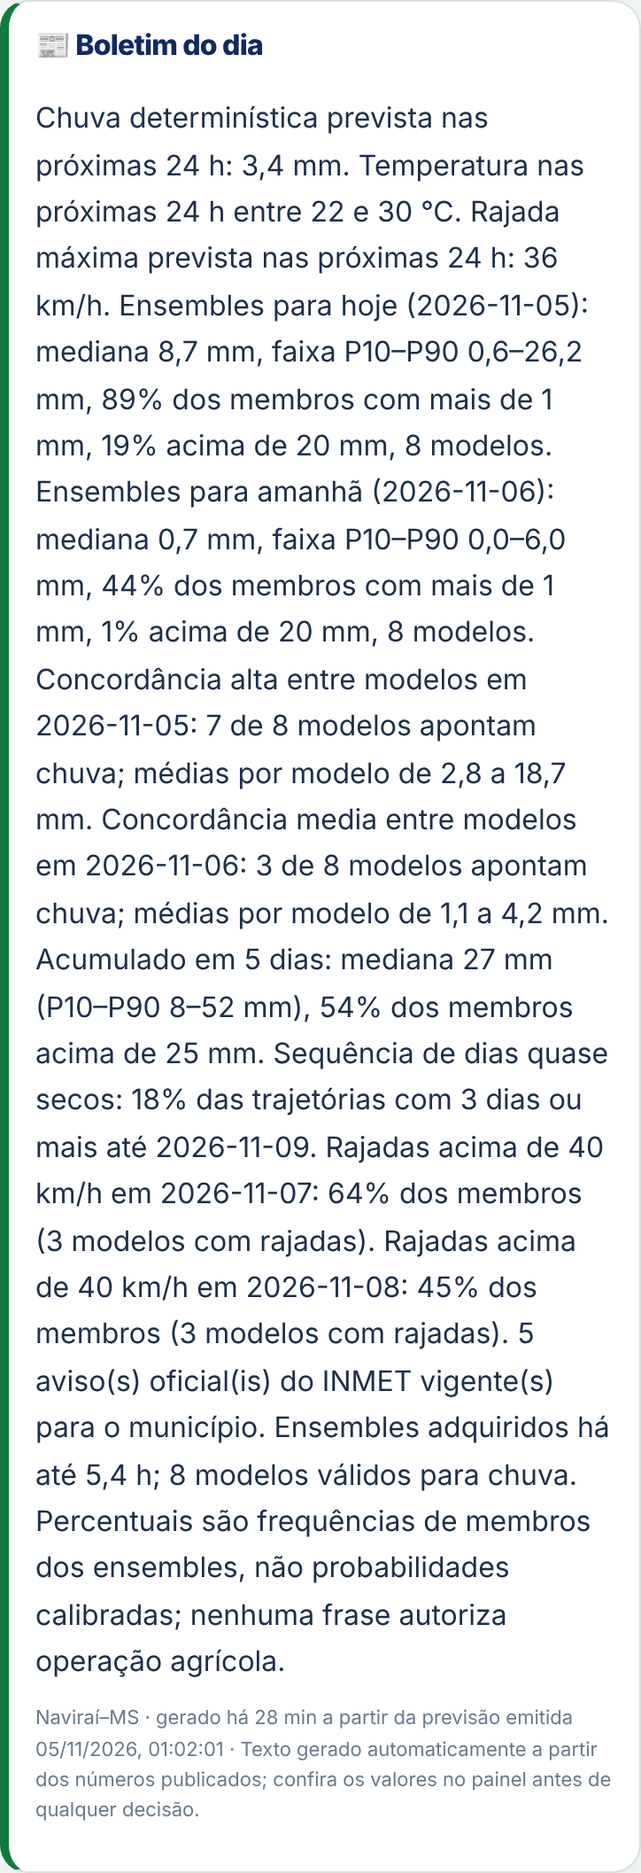
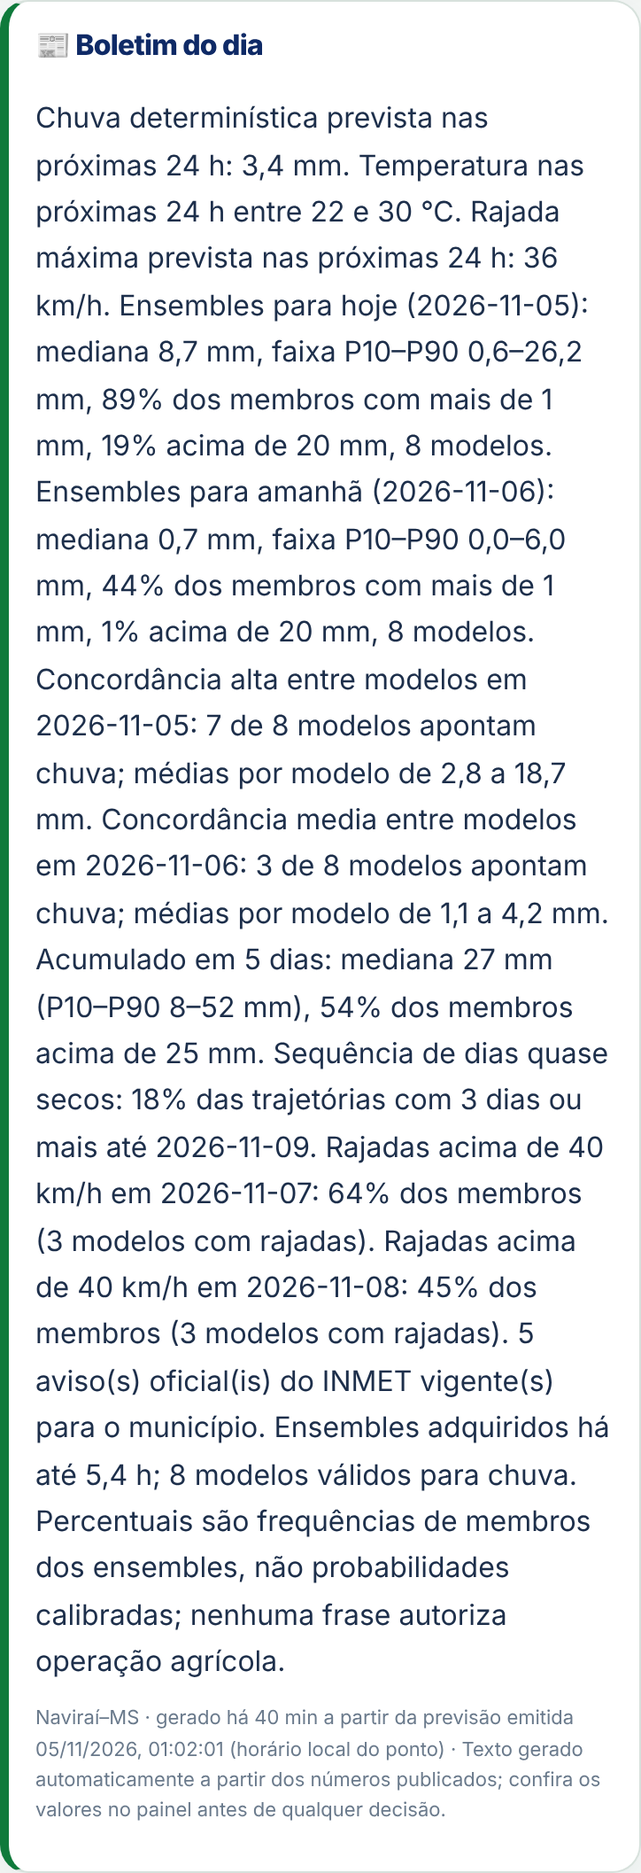
Revisão v4 (interface e infraestrutura): localidade por coordenadas de referência, previsão corrigida com o mesmo preditor da verificação, GOES fora do modo radar, concordância da semana derivada dos dados
- Boletim e estações reconhecem Diamantino pelo ponto de referência (não mais tratado como coordenada personalizada); corridas de carregamento protegidas por token; horário do boletim no fuso do ponto.
- Previsão corrigida na estação: valores horários do modelo agregados no navegador como na verificação (média horária dos membros, extremos do dia local); D4 e D5 usam D3, D6 usa D7; limite inferior do mapeamento de quantis igual ao np.interp; resumo de QC não conta a noite como suspeita; horas de chuva ausentes não viram zero; aba Observações não reinicia a estação escolhida.
- Mapa: animação GOES bloqueada no modo radar; comparação multimodelo limpa o gráfico quando indisponível; semanas GEFS somam só dias com valor; coluna de concordância da semana calculada pela maioria dos rótulos publicados (nunca texto fixo).
- Workflows: cache do Previous Runs restaurado antes do histórico diário (livro de cota contínuo); captura sem resposta válida marcada como indisponível; slugs de estação validados antes de publicar.
- Evidências atualizadas com a segunda rodada real da CI (sete modelos, radiação incluída, chuva sem calibração na estação seca de Diamantino).

Claude-Session: https://claude.ai/code/session_015HPU8JadsuYoGgukeGo36k

Changed region(s): [[0.0608, 0.9054, 0.942, 0.9678]]

diff --git a/site/static/stations_v40.js b/site/static/stations_v40.js
@@ -14,7 +14,20 @@
  let index=null,active=null,variable='t_max';const cache=new Map();
  async function getJSON(url){const r=await fetch(url,{cache:'no-store'});if(!r.ok)throw Error('HTTP '+r.status);return r.json();}
  function dateBR(iso){return iso?`${iso.slice(8,10)}/${iso.slice(5,7)}`:'—';}
- function currentLocationId(){const st=typeof state!=='undefined'?state:null;return st?.site?.id||'navirai';}
+ const REFERENCE_POINTS={navirai:{latitude:-23.065,longitude:-54.19},diamantino:{latitude:-14.408,longitude:-56.446}};
+ function locationIdFor(point){if(!point)return null;for(const [id,ref] of Object.entries(REFERENCE_POINTS)){if(Math.abs(point.latitude-ref.latitude)<0.01&&Math.abs(point.longitude-ref.longitude)<0.01)return id;}return null;}
+ function currentLocationId(){const point=root.CampoLocation?.getPoint?.();const byPoint=locationIdFor(point);if(byPoint)return byPoint;if(point?.custom)return null;const st=typeof state!=='undefined'?state:null;return st?.site?.id||'navirai';}
+ function localDaysFromHourly(times,series,offsetHours){
+  // Mirrors scripts/science/station_files.aggregate_local_days(extremes_from_hourly=True) for the browser.
+  const days=new Map();
+  times.forEach((t,i)=>{const utc=Date.parse(t.endsWith('Z')?t:t+'Z');if(!Number.isFinite(utc))return;const local=new Date(utc+offsetHours*3600000);const day=local.toISOString().slice(0,10);const hour=local.getUTCHours();
+   const ending=new Date(utc+offsetHours*3600000-1000);const endDay=ending.toISOString().slice(0,10);const endHour=hour===0?24:hour;
+   const d=days.get(day)||{temps:new Map(),rain:new Map()};days.set(day,d);if(finite(series.temperature_2m?.[i]))d.temps.set(hour,series.temperature_2m[i]);
+   const e=days.get(endDay)||{temps:new Map(),rain:new Map()};days.set(endDay,e);if(finite(series.precipitation?.[i]))e.rain.set(endHour,series.precipitation[i]);});
+  const out=[];for(const [date,d] of [...days.entries()].sort()){const temps=[...d.temps.values()];const hasAll=(from,to)=>{for(let h=from;h<=to;h++)if(!d.temps.has(h))return false;return true;};
+   out.push({date,t_max:temps.length>=20&&hasAll(10,17)?Math.max(...temps):null,t_min:temps.length>=20&&hasAll(1,7)?Math.min(...temps):null,rain_mm:d.rain.size===24?[...d.rain.values()].reduce((a,b)=>a+b,0):null});}
+  return out;
+ }
  function applyCorrection(params,x,hour){
   if(!params||!finite(x))return null;
   switch(params.method){
@@ -26,6 +39,7 @@
     const qx=params.qx||[],qy=params.qy||[];
     if(qx.length<2)return x*(params.fallback_ratio??1);
     if(!(x>params.threshold))return 0;
+    if(x<=qx[0])return qy[0]; // np.interp clamps on the left
     if(x>qx[qx.length-1])return x*(qx[qx.length-1]>0?qy[qy.length-1]/qx[qx.length-1]:1);
     let i=0;while(i<qx.length-1&&qx[i+1]<x)i++;
     const span=qx[i+1]-qx[i];return span>0?qy[i]+(qy[i+1]-qy[i])*(x-qx[i])/span:qy[i];}
@@ -46,11 +60,12 @@
  function recentTable(report,n=14){
   const days=(report.observations?.daily||[]).filter(d=>finite(d.t_max)||finite(d.rain_mm)).slice(-n).reverse();
   if(!days.length)return '<p class="caption">Sem dias completos recentes.</p>';
-  return `<div class="board-scroll"><table class="board recent"><thead><tr><th>Dia</th><th>T máx</th><th>T mín</th><th>Chuva</th><th>UR mín</th><th>Rajada máx</th></tr></thead><tbody>${days.map(d=>`<tr><td><strong>${dateBR(d.date)}</strong></td><td><strong class="tmax">${fmt(d.t_max,1)}°</strong></td><td><strong class="tmin">${fmt(d.t_min,1)}°</strong></td><td><strong class="rain-big">${finite(d.rain_mm)?fmt(d.rain_mm,1)+' mm':`<small title="dia com horas faltantes: a soma das horas medidas é um limite inferior, não o total">${finite(d.rain_partial_mm)?'≥ '+fmt(d.rain_partial_mm,1)+' mm':'—'} (${d.rain_hours??0}/24 h)</small>`}</strong></td><td>${fmt(d.rh_min,0)}%</td><td>${fmt(d.gust_max_kmh,0)} km/h</td></tr>`).join('')}</tbody></table></div>`;
+  return `<div class="board-scroll"><table class="board recent"><thead><tr><th>Dia</th><th>T máx</th><th>T mín</th><th>Chuva</th><th>UR mín</th><th>Rajada máx</th></tr></thead><tbody>${days.map(d=>`<tr><td><strong>${dateBR(d.date)}</strong></td><td><strong class="tmax">${fmt(d.t_max,1)}°</strong></td><td><strong class="tmin">${fmt(d.t_min,1)}°</strong></td><td><strong class="rain-big">${finite(d.rain_mm)?fmt(d.rain_mm,1)+' mm':finite(d.rain_hours)?`<small title="dia com horas faltantes: a soma das horas medidas é um limite inferior, não o total">${finite(d.rain_partial_mm)?'≥ '+fmt(d.rain_partial_mm,1)+' mm':'—'} (${d.rain_hours}/24 h)</small>`:'—'}</strong></td><td>${fmt(d.rh_min,0)}%</td><td>${fmt(d.gust_max_kmh,0)} km/h</td></tr>`).join('')}</tbody></table></div>`;
  }
  function qcSummary(report){
   const qc=report.observations?.qc||{};const h=qc.hourly,d=qc.daily;
-  if(h){const flagged=Object.entries(h).filter(([k,v])=>typeof v==='object').map(([k,v])=>{const bad=Object.entries(v).filter(([f])=>!['valid','missing'].includes(f)).reduce((a,[,n])=>a+n,0);return bad?`${k}: ${bad}`:null;}).filter(Boolean);
+  if(h){const FAULTS=['out_of_range','inconsistent_extremes','gust_below_speed','dew_above_temperature','step','flatline'];
+   const flagged=Object.entries(h).filter(([k,v])=>typeof v==='object').map(([k,v])=>{const bad=Object.entries(v).filter(([f])=>FAULTS.includes(f)).reduce((a,[,n])=>a+n,0);return bad?`${k}: ${bad}`:null;}).filter(Boolean);
    return `${h.rows} horas no arquivo · ${h.fully_missing_rows} horas sem nenhum dado · valores suspeitos sinalizados (não corrigidos): ${flagged.length?flagged.join(', '):'nenhum'}`;}
   if(d)return `${d.rows} dias no arquivo · ${d.missing_calendar_days??0} dias ausentes no calendário`;
   return 'sem resumo de qualidade';
@@ -74,23 +89,27 @@
   const rows=Object.entries(h).map(([k,v])=>`<div class="farm-card"><small>${esc(label[k]||k)} · melhor modelo em D1</small><strong>${esc(v.model==='multimodelo_media'?'Média multimodelo':v.model)}</strong><span>MAE ${fmt(v.mae_raw,k==='rain_mm'?1:2)} · viés ${v.bias_raw>0?'+':''}${fmt(v.bias_raw,k==='rain_mm'?1:2)} · ${v.n} dias${v.recommended?' · correção validada':''}</span></div>`);
   return rows.length?`<div class="farm-cards">${rows.join('')}</div>`:'';
  }
+ function leadFor(dayIndex){return dayIndex<=1?1:dayIndex<=3?dayIndex:dayIndex<=5?3:7;} // nearest validated lead (D4, D5 → D3; D6 → D7)
  async function correctedForecast(report,container){
   const box=$(container);if(!box)return;
-  const point=report.forecast_point;const st=report.station;
+  const point=report.forecast_point;const st=report.station;const offset=st.utc_offset_hours??-4;
   const models=Object.entries(report.models||{}).filter(([m,s])=>s.state==='ok'||s.state==='partial').map(([m])=>m);
   const preferred=report.headline?.t_max?.model||models[0];if(!preferred){box.textContent='Sem modelo avaliado para esta estação.';return;}
   const members=preferred==='multimodelo_media'?(report.models[preferred]?.members||[]):[preferred];
   box.innerHTML='<p class="caption">Consultando a previsão atual nas coordenadas da estação…</p>';
   try{
-   const q=new URLSearchParams({latitude:point.latitude,longitude:point.longitude,models:members.join(','),daily:'temperature_2m_max,temperature_2m_min,precipitation_sum',timezone:st.timezone||'America/Campo_Grande',forecast_days:'7'});
+   const q=new URLSearchParams({latitude:point.latitude,longitude:point.longitude,models:members.join(','),hourly:'temperature_2m,precipitation',timezone:'UTC',forecast_days:'8'});
    const r=await fetch('https://api.open-meteo.com/v1/forecast?'+q);if(!r.ok)throw Error('HTTP '+r.status);
-   const p=await r.json();const d=p.daily||{};const suffix=members.length>1;
-   const pick=(key,i)=>{const vals=members.map(m=>d[suffix?`${key}_${m}`:key]?.[i]).filter(finite);return vals.length===members.length?vals.reduce((a,b)=>a+b,0)/vals.length:null;};
-   const rows=(d.time||[]).map((date,i)=>{const lead=i<=1?1:i<=3?i:7;const approx=i===0||i>3;
-    const cells=[['t_max',pick('temperature_2m_max',i)],['t_min',pick('temperature_2m_min',i)],['rain_mm',pick('precipitation_sum',i)]].map(([v,raw])=>{const rec=recommended(report,preferred,lead,v);const corr=rec?clip(v,applyCorrection(rec.parameters,raw)):null;
-     return `<td><strong>${fmt(raw,v==='rain_mm'?1:0)}</strong>${rec?`<br><span class="corr" title="${esc(METHOD[rec.method]||rec.method)}; validado em D${lead}${approx?' (aproximação para este dia)':''}">corrigido ${fmt(corr,v==='rain_mm'?1:0)}</span>`:'<br><small>sem correção validada</small>'}</td>`;});
-    return `<tr><td><strong>${dateBR(date)}</strong><small>${i===0?'hoje':i===1?'amanhã':'D'+i}${approx?'*':''}</small></td>${cells.join('')}</tr>`;});
-   box.innerHTML=`<div class="board-scroll"><table class="board corrected"><thead><tr><th>Dia</th><th>T máx (°C)</th><th>T mín (°C)</th><th>Chuva (mm)</th></tr></thead><tbody>${rows.join('')}</tbody></table></div><p class="caption">Modelo ${esc(preferred==='multimodelo_media'?'média multimodelo ('+members.join(', ')+')':preferred)} no ponto ${Number(point.latitude).toFixed(4)}, ${Number(point.longitude).toFixed(4)}. Valor bruto em destaque; "corrigido" aplica apenas correções validadas fora da amostra para a antecedência correspondente. * hoje e D4–D6 usam os parâmetros da antecedência validada mais próxima (aproximação).</p>`;
+   const p=await r.json();const h=p.hourly||{};const suffix=members.length>1;
+   // Hour-by-hour mean of the members (only hours where every member is present), then local-day extremes: the calibration's predictor.
+   const series={temperature_2m:[],precipitation:[]};
+   (h.time||[]).forEach((_,i)=>{for(const key of ['temperature_2m','precipitation']){const vals=members.map(m=>h[suffix?`${key}_${m}`:key]?.[i]).filter(finite);series[key].push(vals.length===members.length?vals.reduce((a,b)=>a+b,0)/vals.length:null);}});
+   const days=localDaysFromHourly(h.time||[],series,offset).filter(d=>d.t_max!==null||d.rain_mm!==null).slice(0,7);
+   const rows=days.map((d,i)=>{const lead=leadFor(i);const approx=i===0||i>3;
+    const cells=[['t_max',d.t_max],['t_min',d.t_min],['rain_mm',d.rain_mm]].map(([v,raw])=>{const rec=recommended(report,preferred,lead,v);const corr=rec&&finite(raw)?clip(v,applyCorrection(rec.parameters,raw)):null;
+     return `<td><strong>${fmt(raw,v==='rain_mm'?1:0)}</strong>${rec&&finite(raw)?`<br><span class="corr" title="${esc(METHOD[rec.method]||rec.method)}; validado em D${lead}${approx?' (aproximação para este dia)':''}">corrigido ${fmt(corr,v==='rain_mm'?1:0)}</span>`:'<br><small>sem correção validada</small>'}</td>`;});
+    return `<tr><td><strong>${dateBR(d.date)}</strong><small>${i===0?'hoje':i===1?'amanhã':'D'+i}${approx?'*':''}</small></td>${cells.join('')}</tr>`;});
+   box.innerHTML=`<div class="board-scroll"><table class="board corrected"><thead><tr><th>Dia</th><th>T máx (°C)</th><th>T mín (°C)</th><th>Chuva (mm)</th></tr></thead><tbody>${rows.join('')}</tbody></table></div><p class="caption">Modelo ${esc(preferred==='multimodelo_media'?'média multimodelo ('+members.join(', ')+')':preferred)} no ponto ${Number(point.latitude).toFixed(4)}, ${Number(point.longitude).toFixed(4)}; extremos e chuva diária calculados dos valores horários exatamente como na verificação. Valor bruto em destaque; "corrigido" aplica apenas correções validadas fora da amostra. * hoje usa os parâmetros de D1; D4 e D5 usam D3 e D6 usa D7 (aproximações).</p>`;
   }catch(err){box.innerHTML=`<p class="notice warning">Não foi possível consultar a previsão atual (${esc(err.message)}).</p>`;}
  }
  function renderStation(report){
@@ -110,8 +129,8 @@
  async function select(slug){
   active=slug;for(const b of document.querySelectorAll('#stations-tabs button'))b.classList.toggle('active',b.dataset.slug===slug);
   const entry=index.stations.find(s=>s.slug===slug);if(!entry)return;
-  try{if(!cache.has(slug))cache.set(slug,await getJSON('data/stations/'+entry.file));renderStation(cache.get(slug));}
-  catch(err){$('stations-body').innerHTML=`<p class="notice warning">Relatório da estação indisponível (${esc(err.message)}).</p>`;}
+  try{if(!cache.has(slug))cache.set(slug,await getJSON('data/stations/'+entry.file));if(active!==slug)return;renderStation(cache.get(slug));}
+  catch(err){if(active!==slug)return;$('stations-body').innerHTML=`<p class="notice warning">Relatório da estação indisponível (${esc(err.message)}).</p>`;}
  }
  function renderTabs(){
   const tabs=$('stations-tabs');if(!tabs)return;
@@ -124,16 +143,16 @@
    if(!index)index=await getJSON('data/stations/index.json');
    status.className='notice';status.innerHTML=`<strong>${index.stations.length} estações</strong> com observações importadas · resultados gerados ${esc(new Date(index.generated_at_utc).toLocaleString('pt-BR'))}.`;
    if(!$('stations-tabs').children.length)renderTabs();
-   const loc=currentLocationId();const first=index.stations.find(s=>s.location_id===loc)||index.stations[0];
-   if(first&&active!==first.slug)await select(first.slug);
+   const loc=currentLocationId();const mine=loc?index.stations.filter(s=>s.location_id===loc):index.stations;
+   if(!mine.some(s=>s.slug===active)){const first=mine[0]||index.stations[0];if(first)await select(first.slug);}
   }catch(err){status.className='notice muted';status.textContent='Resultados das estações ainda não publicados pelo fluxo científico (gerados diariamente após a importação dos arquivos). '+(err.message||'');}
  }
  async function overviewCard(){
   const card=$('station-overview-card'),box=$('station-overview');if(!card||!box)return;
-  if(root.CampoLocation?.getPoint?.()?.custom){card.hidden=true;return;}
+  const loc=currentLocationId();if(!loc){card.hidden=true;return;}
   try{
    if(!index)index=await getJSON('data/stations/index.json');
-   const loc=currentLocationId();const entries=index.stations.filter(s=>s.location_id===loc&&s.recent?.length);
+   const entries=index.stations.filter(s=>s.location_id===loc&&s.recent?.length);
    if(!entries.length){card.hidden=true;return;}
    box.innerHTML=entries.map(s=>{const last=s.recent[s.recent.length-1];const chk=s.yesterday_check;
     return `<div class="station-mini"><div class="station-mini-head"><strong>${esc(s.name)}</strong><small>último dia completo: ${dateBR(last.date)}</small></div><div class="farm-cards"><div class="farm-card"><small>T máx medida</small><strong class="tmax">${fmt(last.t_max,1)}°</strong></div><div class="farm-card"><small>T mín medida</small><strong class="tmin">${fmt(last.t_min,1)}°</strong></div><div class="farm-card tone-wet"><small>Chuva medida</small><strong>${finite(last.rain_mm)?fmt(last.rain_mm,1)+' mm':'—'}</strong></div>${chk?`<div class="farm-card"><small>Conferência D1 em ${dateBR(chk.date)}</small><strong>${finite(chk.obs_rain_mm)?fmt(chk.obs_rain_mm,1):'—'} mm</strong><span>previsto ${fmt(chk.fc_rain_mm,1)} mm · T máx ${fmt(chk.obs_t_max,0)}° (prev. ${fmt(chk.fc_t_max,0)}°)</span></div>`:''}</div><p class="caption">Últimos 7 dias: ${s.recent.map(d=>`${dateBR(d.date)} ${finite(d.rain_mm)?fmt(d.rain_mm,0)+' mm':'—'}`).join(' · ')}. Detalhes e erro dos modelos na aba Observações.</p></div>`;}).join('');
@@ -145,6 +164,6 @@
   root.addEventListener('campo:forecast-rendered',()=>void overviewCard());
   root.addEventListener('campo:location-changed',()=>setTimeout(()=>{void overviewCard();if(document.getElementById('observations')?.classList.contains('active'))void load();},80));
  }
- root.CampoStations={load,select,render:renderStation,overviewCard,applyCorrection,matrix,_test:{clip,recommended}};
+ root.CampoStations={load,select,render:renderStation,overviewCard,applyCorrection,matrix,locationIdFor,_test:{clip,recommended,leadFor,localDaysFromHourly}};
  if(typeof module==='object'&&module.exports)module.exports=root.CampoStations;
 })(typeof window!=='undefined'?window:globalThis);

diff --git a/site/static/weekly_board_v40.js b/site/static/weekly_board_v40.js
@@ -64,16 +64,20 @@
   const sumDet=(from,to)=>{const vals=(det.time||[]).map((d,i)=>[d,det.precipitation_sum?.[i]]).filter(([d])=>d>=from&&d<=to).map(([,v])=>v);return vals.length&&vals.every(finite)?{sum:vals.reduce((a,b)=>a+b,0),days:vals.length}:null;};
   const addDays=(iso,n)=>new Date(Date.parse(iso+'T12:00:00Z')+n*86400000).toISOString().slice(0,10);
   const w1=sumDet(today,addDays(today,6)),w2=sumDet(addDays(today,7),addDays(today,13));
+  // Confidence of the week comes from the published agreement between models (majority label), never from a fixed text.
+  const labels=(state?.rain_model_agreement_daily||[]).filter(a=>a.date>=today&&a.date<=addDays(today,6)).map(a=>a.agreement_label).filter(Boolean);
+  const count=l=>labels.filter(x=>x===l).length;
+  const weekConfidence=!acc?'—':labels.length<3?'sem leitura':count('alta')>labels.length/2?'alta':count('baixa')>labels.length/2?'baixa':'média';
   rows.push({label:'Esta semana',period:`${today.slice(8,10)}/${today.slice(5,7)}–${addDays(today,6).slice(8,10)}/${addDays(today,6).slice(5,7)}`,
-   rain:acc?`${fmt(acc.p50_mm)} mm`:w1?`${fmt(w1.sum)} mm`:'—',range:acc?`P10–P90 ${fmt(acc.p10_mm)}–${fmt(acc.p90_mm)} mm · ${pct(acc.p_gt_25_mm)} dos membros acima de 25 mm`:'determinístico',
-   source:acc?`${acc.model_count} ensembles`:'Open-Meteo determinístico',confidence:acc?'média a alta':'média',kind:'ensemble'});
+   rain:acc?`${fmt(acc.p50_mm)} mm`:w1?`${fmt(w1.sum)} mm`:'—',range:acc?`P10–P90 ${fmt(acc.p10_mm)}–${fmt(acc.p90_mm)} mm · ${pct(acc.p_gt_25_mm)} dos membros acima de 25 mm${labels.length?` · concordância ${weekConfidence} em ${labels.length} dias`:''}`:'determinístico, sem distribuição de ensemble',
+   source:acc?`${acc.model_count} ensembles`:'Open-Meteo determinístico',confidence:weekConfidence,kind:'ensemble'});
   rows.push({label:'Próxima semana',period:`${addDays(today,7).slice(8,10)}/${addDays(today,7).slice(5,7)}–${addDays(today,13).slice(8,10)}/${addDays(today,13).slice(5,7)}`,
    rain:w2&&w2.days>=5?`${fmt(w2.sum)} mm`:'—',range:w2?`${w2.days} dias com previsão determinística; sem distribuição de ensemble`:'sem previsão diária',source:'Open-Meteo determinístico (dias 8–14)',confidence:'baixa',kind:'deterministic'});
   const gefs=state?.complementary?.gefs_extended;
   if(gefs?.state==='ok'&&Array.isArray(gefs.days)){
    const byWeek={};for(const d of gefs.days){const off=Math.round((Date.parse(d.date+'T12:00:00Z')-Date.parse(today+'T12:00:00Z'))/86400000);if(off<14)continue;const w=Math.floor(off/7);(byWeek[w]??=[]).push(d);}
-   for(const [w,days] of Object.entries(byWeek)){if(days.length<5)continue;const mean=days.reduce((s,d)=>s+(d.mean_mm||0),0);
-    rows.push({label:`Semana ${Number(w)+1}`,period:`${days[0].date.slice(8,10)}/${days[0].date.slice(5,7)}–${days.at(-1).date.slice(8,10)}/${days.at(-1).date.slice(5,7)}`,rain:`≈ ${fmt(mean)} mm`,range:`soma das médias diárias do GEFS (${days.length} dias; ${gefs.member_count} membros de um só modelo)`,source:'NOAA GEFS estendido',confidence:'baixa',kind:'gefs'});}
+   for(const [w,days] of Object.entries(byWeek)){const vals=days.map(d=>d.mean_mm).filter(finite);if(vals.length<5)continue;const mean=vals.reduce((s,v)=>s+v,0);
+    rows.push({label:`Semana ${Number(w)+1}`,period:`${days[0].date.slice(8,10)}/${days[0].date.slice(5,7)}–${days.at(-1).date.slice(8,10)}/${days.at(-1).date.slice(5,7)}`,rain:`≈ ${fmt(mean)} mm`,range:`soma das médias diárias do GEFS (${vals.length} dias com valor; ${gefs.member_count} membros de um só modelo)`,source:'NOAA GEFS estendido',confidence:'tendência',kind:'gefs'});}
   }
   const ext=state?.complementary?.ecmwf_extended;
   if(ext?.state==='ok'&&Array.isArray(ext.weeks)){
@@ -99,7 +103,7 @@
   }
   if(weeks){
    const rows=buildWeeks(state,now);
-   weeks.innerHTML=`<div class="board-scroll"><table class="board weeks"><thead><tr><th>Período</th><th>Chuva esperada</th><th>Leitura</th><th>Fonte</th><th>Confiança</th></tr></thead><tbody>${rows.map(r=>`<tr class="week-${esc(r.kind)}"><td><strong>${esc(r.label)}</strong><small>${esc(r.period)}</small></td><td><strong class="rain-big">${esc(r.rain)}</strong></td><td>${esc(r.range)}</td><td>${esc(r.source)}</td><td><span class="agree ${r.confidence.startsWith('média')?'ok':r.confidence==='baixa'?'bad':'warn'}">${esc(r.confidence)}</span></td></tr>`).join('')}</tbody></table></div><p class="caption">Além de 7 dias a previsão diária perde qualidade; semanas 3 em diante são tendências de um modelo (GEFS) ou médias semanais (ECMWF), nunca chuva em dias específicos.</p>`;
+   weeks.innerHTML=`<div class="board-scroll"><table class="board weeks"><thead><tr><th>Período</th><th>Chuva esperada</th><th>Leitura</th><th>Fonte</th><th>Concordância</th></tr></thead><tbody>${rows.map(r=>`<tr class="week-${esc(r.kind)}"><td><strong>${esc(r.label)}</strong><small>${esc(r.period)}</small></td><td><strong class="rain-big">${esc(r.rain)}</strong></td><td>${esc(r.range)}</td><td>${esc(r.source)}</td><td><span class="agree ${r.confidence==='alta'?'ok':r.confidence==='média'?'warn':r.confidence==='baixa'?'bad':''}">${esc(r.confidence)}</span></td></tr>`).join('')}</tbody></table></div><p class="caption">Além de 7 dias a previsão diária perde qualidade; semanas 3 em diante são tendências de um modelo (GEFS) ou médias semanais (ECMWF), nunca chuva em dias específicos.</p>`;
   }
  }
  function bind(){root.addEventListener?.('campo:forecast-rendered',()=>{try{render(typeof state!=='undefined'?state:null);}catch(e){console.error('weekly board render',e);}});}

diff --git a/site/static/bulletin_v40.js b/site/static/bulletin_v40.js
@@ -5,7 +5,10 @@
 (function(root){
  const $=id=>typeof document==='undefined'?null:document.getElementById(id);
  const esc=s=>String(s??'').replace(/[&<>"']/g,c=>({'&':'&amp;','<':'&lt;','>':'&gt;','"':'&quot;',"'":'&#39;'}[c]));
- const cache=new Map();
+ const cache=new Map();let requestId=0;
+ const REFERENCE_POINTS={navirai:{latitude:-23.065,longitude:-54.19},diamantino:{latitude:-14.408,longitude:-56.446}};
+ function locationIdFor(point){if(!point)return null;for(const [id,ref] of Object.entries(REFERENCE_POINTS)){if(Math.abs(point.latitude-ref.latitude)<0.01&&Math.abs(point.longitude-ref.longitude)<0.01)return id;}return null;}
+ function siteTimeZone(){const st=typeof state!=='undefined'?state:null;const tz=st?.site?.timezone;return tz&&tz!=='auto'?tz:'America/Campo_Grande';}
  function originLabel(b){
   if(b.status==='llm')return {text:`IA (${b.provider}: ${b.model}) · números validados contra os fatos`,cls:'ai'};
   if(b.status==='rules_fallback')return {text:'texto por regras (IA indisponível ou rejeitada)',cls:'rules'};
@@ -18,11 +21,13 @@
   const origin=originLabel(bulletin);
   $('bulletin-text').textContent=bulletin.text;
   const badge=$('bulletin-origin');badge.textContent=origin.text;badge.className='source-badge origin-'+origin.cls;
-  $('bulletin-meta').textContent=`${locationName?locationName+' · ':''}gerado ${ageText(bulletin.generated_utc)} a partir da previsão emitida ${bulletin.issued_at_utc?new Date(bulletin.issued_at_utc).toLocaleString('pt-BR'):'—'} · ${bulletin.disclaimer||''}`;
+  let issued='—';try{issued=bulletin.issued_at_utc?new Date(bulletin.issued_at_utc).toLocaleString('pt-BR',{timeZone:siteTimeZone()})+' (horário local do ponto)':'—';}catch(_){issued=bulletin.issued_at_utc||'—';}
+  $('bulletin-meta').textContent=`${locationName?locationName+' · ':''}gerado ${ageText(bulletin.generated_utc)} a partir da previsão emitida ${issued} · ${bulletin.disclaimer||''}`;
   card.hidden=false;
  }
  async function load(locationId,locationName){
   const card=$('bulletin-card');if(!card)return null;
+  const token=++requestId;
   if(!locationId){card.hidden=true;return null;}
   try{
    if(!cache.has(locationId)){
@@ -30,20 +35,21 @@
     if(!r.ok)throw Error('HTTP '+r.status);
     cache.set(locationId,await r.json());
    }
+   if(token!==requestId)return null; // the location changed while the bulletin was loading
    render(cache.get(locationId),locationName);return cache.get(locationId);
-  }catch(_){card.hidden=true;return null;}
+  }catch(_){if(token===requestId)card.hidden=true;return null;}
  }
  function currentLocation(){
   const st=typeof state!=='undefined'?state:null;
-  const custom=root.CampoLocation?.getPoint?.()?.custom;
-  if(custom)return {id:null,name:null};
-  return {id:st?.site?.id||'navirai',name:st?.site?.id==='diamantino'?'Diamantino–MT':'Naviraí–MS'};
+  const point=root.CampoLocation?.getPoint?.();
+  const id=locationIdFor(point)||(point?.custom?null:(st?.site?.id||'navirai'));
+  return {id,name:id==='diamantino'?'Diamantino–MT':id==='navirai'?'Naviraí–MS':null};
  }
  function refresh(){const loc=currentLocation();void load(loc.id,loc.name);}
  if(typeof document!=='undefined'){
   root.addEventListener('campo:forecast-rendered',refresh);
   root.addEventListener('campo:location-changed',()=>setTimeout(refresh,50));
  }
- root.CampoBulletin={load,render,originLabel,_test:{ageText}};
+ root.CampoBulletin={load,render,originLabel,locationIdFor,_test:{ageText,currentLocation}};
  if(typeof module==='object'&&module.exports)module.exports=root.CampoBulletin;
 })(typeof window!=='undefined'?window:globalThis);

diff --git a/site/static/maps_v14.js b/site/static/maps_v14.js
@@ -141,7 +141,7 @@
     radarStatus('Radar indisponível nesta consulta ('+(err.name==='AbortError'?'tempo limite':String(err.message).slice(0,65))+'). Consulte os visualizadores oficiais do INMET/INPE.','bad');}
   }finally{clearTimeout(timeout);if(radarRequest===abort)radarRequest=null;}
  }
- function setRadarMode(){clearRadarCache();clearTimeLayers();productTitle();updateProductLegend();
+ function setRadarMode(){clearRadarCache();clearTimeLayers();if(el('goes-control'))el('goes-control').hidden=radarActive()||!timeLayerActive();productTitle();updateProductLegend();
   if(radarActive()){
    pause();weatherLayer?.clearLayers();
    for(const id of ['map-hour','map-previous','map-next','map-play','map-refresh'])if(el(id))el(id).disabled=true;
@@ -186,7 +186,7 @@
  function goesLabel(iso){const d=new Date(iso);let local;try{local=new Intl.DateTimeFormat('pt-BR',{dateStyle:'short',timeStyle:'short',timeZone:tz()}).format(d);}catch(_){local=iso;}const age=Math.round((Date.now()-d.getTime())/60000);return `${local} (local) · ${iso.slice(11,16)} UTC · há ${age} min`;}
  function clearTimeLayers(){for(const l of goesLayers.values())if(map?.hasLayer(l))map.removeLayer(l);goesLayers.clear();if(goesTimer){clearInterval(goesTimer);goesTimer=null;}const b=el('goes-play');if(b)b.textContent='▶ Animar nuvens';}
  function showTimeFrame(index){
-  if(!map||!timeLayerActive()||!goesFrames.length)return;
+  if(!map||radarActive()||!timeLayerActive()||!goesFrames.length)return;
   goesIndex=clamp(index,0,goesFrames.length-1);const layer=el('map-satellite').value,iso=goesFrames[goesIndex],cfg=TIME_LAYERS[layer];
   el('goes-frame').value=String(goesIndex);el('goes-time').textContent=goesLabel(iso);
   let tile=goesLayers.get(iso);
@@ -200,7 +200,7 @@
   if(goesLayers.size>6){for(const [k,l] of goesLayers){if(k!==iso&&Math.abs(goesFrames.indexOf(k)-goesIndex)>2){map.removeLayer(l);goesLayers.delete(k);}}}
  }
  function toggleGoesPlay(){if(goesTimer){clearInterval(goesTimer);goesTimer=null;el('goes-play').textContent='▶ Animar nuvens';return;}
-  if(!goesFrames.length)return;el('goes-play').textContent='⏸ Pausar';if(goesIndex>=goesFrames.length-1)goesIndex=-1;
+  if(!goesFrames.length||radarActive())return;el('goes-play').textContent='⏸ Pausar';if(goesIndex>=goesFrames.length-1)goesIndex=-1;
   goesTimer=setInterval(()=>{if(!el('maps').classList.contains('active')||!timeLayerActive()){toggleGoesPlay();return;}showTimeFrame(goesIndex>=goesFrames.length-1?0:goesIndex+1);},1100);}
  function drawTimeLayer(){
   const layer=el('map-satellite').value;clearTimeLayers();if(!goesFrames.length){goesBackoff=0;goesFrames=timeFrames(layer);}

diff --git a/site/static/models_compare_v40.js b/site/static/models_compare_v40.js
@@ -22,7 +22,8 @@
  function render(product){
   const status=$('models-compare-status'),table=$('models-compare-table'),plot=$('models-compare-plot');
   if(!status||!table)return;
-  if(!product||product.state!=='ok'){status.textContent='Comparação multimodelo indisponível nesta coleta'+(product?.error?` (${product.error})`:'')+'.';status.className='notice muted';table.innerHTML='';return;}
+  if(!product||product.state!=='ok'){status.textContent='Comparação multimodelo indisponível nesta coleta'+(product?.error?` (${product.error})`:'')+'.';status.className='notice muted';table.innerHTML='';
+   if(plot&&root.Plotly&&plot.classList.contains('js-plotly-plot'))root.Plotly.purge(plot);if(plot)plot.innerHTML='';return;}
   const list=rows(product),info=summary(product);
   status.className='notice';
   status.innerHTML=`<strong>${info.ok} modelos determinísticos</strong> no mesmo ponto, coleta ${esc(new Date(product.collected_at_utc).toLocaleString('pt-BR'))}.${info.fallback?' '+esc(info.fallback)+'.':''}${info.missing.length?` <small>Indisponíveis: ${esc(info.missing.join(' · '))}</small>`:''}`;

diff --git a/scripts/science/station_calibration.py b/scripts/science/station_calibration.py
@@ -25,6 +25,7 @@ import datetime as dt
 import json
 import math
 import os
+import re
 from pathlib import Path
 import numpy as np
 from .common import digest, haversine, now, packed, write_json
@@ -489,6 +490,8 @@ def run(*, fetch=False, fixture=None, output_dir='site/data/stations', runtime='
     fixture_data = json.loads(Path(fixture).read_text(encoding='utf-8')) if fixture else None
     reports = []
     for entry in registry(Path(root) / 'data/stations/stations.json'):
+        if not re.fullmatch(r'[a-z0-9_-]+', str(entry.get('slug', ''))):
+            raise ValueError(f'slug inválido em stations.json: {entry.get("slug")!r} (use a-z, 0-9, _ e -)')
         if stations and entry['id'] not in stations and entry['slug'] not in stations:
             continue
         data = load_station(entry, root, asof=asof)
@@ -513,7 +516,9 @@ def run(*, fetch=False, fixture=None, output_dir='site/data/stations', runtime='
             try:
                 forecasts = fetch_station_forecasts(client, entry, data['period'][0], data['period'][1], models=models)
             finally:
-                cap.finish()
+                # A capture without any valid response is 'unavailable' (not archived as an import).
+                ok = any(r.get('http_status') == 200 and r.get('raw_sha256') for r in cap.manifest['requests'])
+                cap.finish('complete' if ok else 'unavailable')
         forecasts = add_multimodel_mean(forecasts)
         reports.append(station_report(data, forecasts))
     return write_reports(reports, output_dir), reports

diff --git a/scripts/archive_git.py b/scripts/archive_git.py
@@ -106,9 +106,11 @@ def publish(captures,root,*,push=False,train=False):
     stations_src=Path(os.environ.get('STATION_REPORTS_DIR','runtime/stations_public'))
     if stations_src.is_dir() and (stations_src/'index.json').exists():
         from scripts.science.common import atomic
-        for p in stations_src.glob('*.json'):
+        import re as _re
+        names=[p for p in stations_src.glob('*.json') if _re.fullmatch(r'[a-z0-9_\-]+\.json',p.name)]
+        for p in names:
             atomic(root/'public'/'stations'/p.name,p.read_bytes())
-        out.append({'state':'stations_published','files':sorted(p.name for p in stations_src.glob('*.json'))})
+        out.append({'state':'stations_published','files':sorted(p.name for p in names)})
     storage=inventory(root);warn(storage)
     failures=[x for x in out if x['state'] in ('failed','source_unavailable')]
     update_status=changed or reports_refreshed or not previous or previous.get('storage',{}).get('severity')!=storage['severity'] or previous.get('failures')!=failures

diff --git a/docs/RELEASES/V4_EVIDENCIAS.md b/docs/RELEASES/V4_EVIDENCIAS.md
@@ -32,16 +32,16 @@ Coordenadas: S735 e A949 vêm do catálogo oficial INMET (`/estacoes/T`, arquiva
 
 `overview_simple_desktop.png`, `overview_simple_mobile.png`, `weekly_board_desktop.png`, `weekly_board_mobile.png`, `weeks_ahead_*.png`, `bulletin_*.png`, `station_overview_*.png`, `stations_desktop.png`, `stations_mobile.png`, `maps_goes_desktop.png`, `models_compare_desktop.png`, `overview_advanced_desktop.png`, `browser_report.json`.
 
-## Primeira execução com rede (CI do PR, 05/11/2026 06:40–06:48 UTC)
+## Execuções com rede (CI do PR, 05/11/2026)
 
-O job não bloqueante `stations-preview` da CI consultou o Previous Runs API nas coordenadas das três estações: os sete modelos responderam (um bloco do GEM expirou por tempo e ficou parcial). Resultados brutos em D1 (MAE sobre todos os pares; versão do código anterior às janelas de extremos e ao mínimo de dias úmidos, que serão recalculados na próxima execução):
+O job não bloqueante `stations-preview` consultou o Previous Runs API nas coordenadas das três estações em duas rodadas (06:40 e 06:54 UTC; a segunda já com as janelas de extremos, a janela solar da radiação e o mínimo de dias úmidos). Os sete modelos responderam nas duas estações INMET. Erro absoluto médio bruto em D1 sobre todos os pares (segunda rodada):
 
-| Estação | Temperatura horária | T máx diária | T mín diária | Chuva diária |
-|---|---|---|---|---|
-| INMET S735 Naviraí | ICON 1,38 °C · ECMWF 1,42 · GFS 1,58 · JMA 2,08 | ICON 1,60 °C (viés −0,4) · ECMWF 2,13 (viés −1,05) | GFS/ECMWF 1,26 °C · JMA 2,87 (viés +2,8, corrigido para 1,21) | UKMO 3,08 mm · multimodelo 3,33 · GEM 3,49 |
-| INMET A949 Diamantino | ECMWF 1,69 °C (corrigido por hora para 1,54) | GEM 1,63 °C · ECMWF 2,40 (viés −2,08, corrigido para 1,14) | ECMWF 1,08 °C | GFS 1,96 mm (viés −1,4) · ECMWF 2,33 |
+| Estação | Temperatura horária | T máx diária | T mín diária | Chuva diária | Radiação diária |
+|---|---|---|---|---|---|
+| INMET S735 Naviraí | multimodelo 1,38 °C · ICON 1,39 · ECMWF 1,42 · GFS 1,58 · JMA 2,08 | ICON 1,60 °C (viés −0,4) · UKMO 1,80 · ECMWF 2,15 (viés −1,06) | GFS 1,26 °C · ECMWF 1,27 · JMA 2,88 (viés +2,8 → 1,20 corrigido) | UKMO 3,08 mm · multimodelo 3,33 · GEM 3,49 · GFS 3,67 | ICON 2,40 MJ/m² · ECMWF 2,43 (viés +1,5) |
+| INMET A949 Diamantino | ICON 1,55 °C · ECMWF 1,70 (→ 1,54 por hora do dia) · GFS 2,07 | ARPEGE 1,66 °C · ICON 1,96 (viés −1,64 → 1,02) · ECMWF 2,40 (viés −2,08 → 1,14) | ECMWF 1,08 °C · ICON 1,24 | GEM 1,95 mm (estação seca: sem dias úmidos suficientes para calibrar) | ICON 3,57 MJ/m² (viés +3,3 → 1,94) · ECMWF 4,58 (viés +4,55 → 1,97) |
 
-Padrões recorrentes: todos os modelos subestimam o vento horário nas duas estações (viés de −1 a −5 km/h em Naviraí, +1,7 no ECMWF em Diamantino), o GFS subestima a umidade relativa em ~8 pontos em Naviraí e a mínima diária tende a ser prevista quente demais (viés positivo em quase todos os modelos). Nenhuma correção de chuva com ganho relevante; as correções de temperatura e umidade validadas aparecem na aba Observações após a publicação pelo fluxo diário.
+Padrões recorrentes: todos os modelos subestimam o vento horário em Naviraí (viés de −1 a −5 km/h) e o superestimam em Diamantino (ECMWF +1,7; GFS +3,6 km/h); o GFS subestima a umidade relativa em ~8 pontos em Naviraí e ~21 pontos em Diamantino (corrigível para MAE 11,6); as mínimas diárias saem quentes demais em quase todos os modelos; a radiação dos modelos é alta demais em Diamantino (+3 a +4,6 MJ/m²/dia). Correções de chuva só com ganho marginal (≤ 9 %) em Naviraí e nenhuma em Diamantino. Nada substitui a previsão principal: as correções validadas aparecem na aba Observações após a publicação pelo fluxo diário.
 
 ## Produção (contexto)
 

diff --git a/docs/ESTACOES_E_CALIBRACAO_V4.md b/docs/ESTACOES_E_CALIBRACAO_V4.md
@@ -60,7 +60,7 @@ Métricas publicadas por estação × modelo × antecedência × variável: n, M
 
 ## 7. Onde os resultados aparecem
 
-- Aba **Observações** → painel "Estações físicas": últimos dias medidos, melhor modelo por variável em D1, matriz de MAE por antecedência com selo ✓ e ganho quando há correção validada, viés da temperatura por hora do dia, série de chuva medido × previsto D1 e o botão "Consultar previsão corrigida", que pede ao Open-Meteo a previsão atual no ponto da estação e aplica no navegador apenas as correções validadas, sempre ao lado do valor bruto (hoje e D4–D6 usam a antecedência validada mais próxima e são marcados como aproximação).
+- Aba **Observações** → painel "Estações físicas": últimos dias medidos, melhor modelo por variável em D1, matriz de MAE por antecedência com selo ✓ e ganho quando há correção validada, viés da temperatura por hora do dia, série de chuva medido × previsto D1 e o botão "Consultar previsão corrigida", que pede ao Open-Meteo a previsão atual no ponto da estação e aplica no navegador apenas as correções validadas, sempre ao lado do valor bruto (hoje usa D1, D4 e D5 usam D3 e D6 usa D7, sempre marcados como aproximação; para a média multimodelo o navegador reproduz o mesmo preditor da verificação: média horária dos membros e extremos do dia local a partir das horas).
 - **Visão geral** (modo simples): cartão com o último dia completo medido e a conferência do dia anterior (previsto D1 × medido).
 - Arquivos: `site/data/stations/index.json` e `site/data/stations/<slug>.json` (ver [Dicionário de dados](DATA_DICTIONARY.md)).
 
